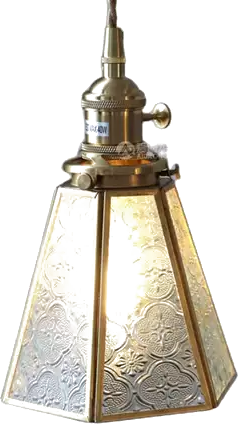
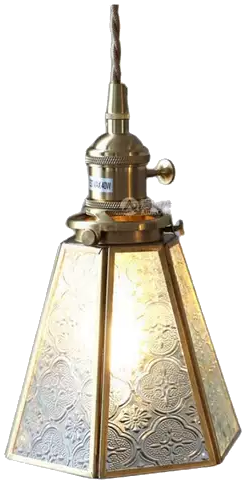
Replace intro lamp with hanging pendant drop animation.
Use a background-removed pendant asset with an extended cord anchored to the page top, and animate the fixture slowly lowering into place.

diff --git a/style.css b/style.css
@@ -516,12 +516,6 @@ body[data-home-reveal="done"] #home .home-panel-content > *:nth-child(4) {
     transition-delay: 1.05s;
 }
 
-@property --home-lamp-drop {
-    syntax: "<length>";
-    inherits: true;
-    initial-value: 0px;
-}
-
 .home-intro-overlay {
     position: fixed;
     z-index: 1200;
@@ -530,7 +524,6 @@ body[data-home-reveal="done"] #home .home-panel-content > *:nth-child(4) {
     place-items: center;
     background: #000;
     transition: background 1.2s ease, opacity 1.2s ease;
-    overflow: hidden;
 }
 
 .home-intro-overlay--dark,
@@ -546,90 +539,85 @@ body[data-home-reveal="done"] #home .home-panel-content > *:nth-child(4) {
     pointer-events: none;
 }
 
-.home-intro-lamp-anchor {
-    position: fixed;
+.home-intro-lamp-wrap {
+    position: absolute;
     top: 0;
     left: 50%;
-    z-index: 3;
+    z-index: 2;
     display: flex;
     flex-direction: column;
     align-items: center;
+    width: min(188px, 28vw);
     transform: translateX(-50%);
     pointer-events: none;
 }
 
 .home-intro-lamp-cord {
     position: relative;
-    width: 7px;
-    height: var(--home-lamp-drop);
+    z-index: 3;
+    flex: 0 0 auto;
+    width: 8px;
+    height: 0;
     border-radius: 999px;
-    background:
-        repeating-linear-gradient(
-            128deg,
-            #3b2a1d 0 5px,
-            #745236 5px 10px,
-            #4a3426 10px 15px,
-            #8a6445 15px 20px
-        );
+    background-color: #8a6238;
+    background-repeat: repeat-y;
+    background-position: center top;
+    background-size: 100% auto;
     box-shadow:
-        inset -1px 0 1px rgba(255, 255, 255, 0.1),
-        inset 1px 0 2px rgba(0, 0, 0, 0.35);
-    transition: height 3.6s cubic-bezier(0.33, 1, 0.32, 1);
+        inset 1px 0 1px rgba(255, 230, 190, 0.28),
+        inset -1px 0 1px rgba(40, 24, 10, 0.4),
+        0 0 10px rgba(255, 200, 120, 0.16);
+    transform-origin: top center;
+    transition: height 3.4s cubic-bezier(0.22, 0.61, 0.36, 1);
 }
 
-.home-intro-lamp-cord::after {
+.home-intro-lamp-cord::before {
     content: "";
     position: absolute;
-    bottom: -5px;
+    top: -2px;
     left: 50%;
-    width: 12px;
-    height: 9px;
-    background: linear-gradient(180deg, #c9a45c, #8f6d36);
-    border-radius: 2px;
+    width: 10px;
+    height: 10px;
+    border-radius: 50%;
+    background: radial-gradient(circle at 35% 35%, #e2c49a, #7a5530 70%);
     transform: translateX(-50%);
-    box-shadow: 0 1px 2px rgba(0, 0, 0, 0.35);
+    box-shadow: 0 0 8px rgba(255, 210, 140, 0.25);
 }
 
-.home-intro-lamp-wrap {
-    position: relative;
-    width: min(200px, 30vw);
+.home-intro-overlay--lamp .home-intro-lamp-cord,
+.home-intro-overlay--text .home-intro-lamp-cord,
+.home-intro-overlay--hold .home-intro-lamp-cord {
+    height: min(22vh, 190px);
+}
+
+.home-intro-overlay--blackout .home-intro-lamp-cord {
+    height: 0;
     opacity: 0;
-    transform: translateY(calc(-100% - 24px));
+    transition: height 1.2s ease, opacity 1.2s ease;
+}
+
+.home-intro-lamp-body {
+    position: relative;
+    z-index: 2;
+    width: 100%;
+    opacity: 0;
+    transform: translateY(-12px);
     transition:
-        opacity 1.2s ease 0.15s,
-        transform 3.6s cubic-bezier(0.33, 1, 0.32, 1);
+        opacity 1.2s ease 0.35s,
+        transform 3.4s cubic-bezier(0.22, 0.61, 0.36, 1);
 }
 
-.home-intro-overlay--dark {
-    --home-lamp-drop: 0px;
-}
-
-.home-intro-overlay--lamp,
-.home-intro-overlay--text,
-.home-intro-overlay--hold {
-    --home-lamp-drop: clamp(76px, 13vh, 128px);
-}
-
-.home-intro-overlay--lamp .home-intro-lamp-wrap,
-.home-intro-overlay--text .home-intro-lamp-wrap,
-.home-intro-overlay--hold .home-intro-lamp-wrap {
+.home-intro-overlay--lamp .home-intro-lamp-body,
+.home-intro-overlay--text .home-intro-lamp-body,
+.home-intro-overlay--hold .home-intro-lamp-body {
     opacity: 1;
     transform: translateY(0);
 }
 
-.home-intro-overlay--blackout {
-    --home-lamp-drop: clamp(76px, 13vh, 128px);
-}
-
-.home-intro-overlay--blackout .home-intro-lamp-wrap {
+.home-intro-overlay--blackout .home-intro-lamp-body {
     opacity: 0;
-    transform: translateY(-18px);
+    transform: translateY(-8px);
     transition: opacity 1.2s ease, transform 1.2s ease;
-}
-
-.home-intro-overlay--blackout .home-intro-lamp-cord {
-    opacity: 0;
-    transition: opacity 1.2s ease;
 }
 
 .home-intro-lamp-image {
@@ -638,12 +626,12 @@ body[data-home-reveal="done"] #home .home-panel-content > *:nth-child(4) {
     display: block;
     width: 100%;
     height: auto;
-    filter: drop-shadow(0 0 30px rgba(255, 208, 120, 0.5));
+    filter: drop-shadow(0 0 28px rgba(255, 208, 120, 0.45));
 }
 
 .home-intro-lamp-beam {
     position: absolute;
-    top: 92%;
+    top: 78%;
     left: 50%;
     z-index: 1;
     width: min(92vw, 920px);
@@ -651,7 +639,7 @@ body[data-home-reveal="done"] #home .home-panel-content > *:nth-child(4) {
     pointer-events: none;
     opacity: 0;
     transform: translateX(-50%);
-    transition: opacity 2.2s ease 1.8s;
+    transition: opacity 2.2s ease 1.4s;
     clip-path: polygon(50% 0%, 10% 100%, 90% 100%);
     background:
         conic-gradient(

diff --git a/src/components/HomeIntroOverlay.jsx b/src/components/HomeIntroOverlay.jsx
@@ -5,7 +5,8 @@ import { useTypewriter } from "../hooks/useTypewriter.js";
 const INTRO_TEXT =
     "你来了？我们都在等你。刚好我们在聊一个有趣的话题……";
 
-const pendantLampSrc = `${import.meta.env.BASE_URL}img/pendant-lamp.png`;
+const pendantSrc = `${import.meta.env.BASE_URL}img/pendant-lamp.png`;
+const cordSrc = `${import.meta.env.BASE_URL}img/pendant-cord.png`;
 
 const PHASE = {
     DARK: "dark",
@@ -17,9 +18,8 @@ const PHASE = {
 };
 
 const TIMING = {
-    darkHold: 1200,
-    lampDrop: 3600,
-    lampHold: 1200,
+    darkHold: 1400,
+    lampHold: 3600,
     typeSpeed: 72,
     textHold: 3200,
     blackoutFade: 1200,
@@ -44,10 +44,7 @@ export default function HomeIntroOverlay({ onBlackoutComplete }) {
     useEffect(() => {
         if (phase !== PHASE.LAMP) return undefined;
 
-        const textTimer = window.setTimeout(
-            () => setPhase(PHASE.TEXT),
-            TIMING.lampDrop + TIMING.lampHold,
-        );
+        const textTimer = window.setTimeout(() => setPhase(PHASE.TEXT), TIMING.lampHold);
         return () => window.clearTimeout(textTimer);
     }, [phase]);
 
@@ -85,12 +82,15 @@ export default function HomeIntroOverlay({ onBlackoutComplete }) {
             className={`home-intro-overlay home-intro-overlay--${phase}`}
             aria-hidden="true"
         >
-            <div className="home-intro-lamp-anchor">
-                <div className="home-intro-lamp-cord" />
-                <div className="home-intro-lamp-wrap">
+            <div className="home-intro-lamp-wrap">
+                <div
+                    className="home-intro-lamp-cord"
+                    style={{ backgroundImage: `url(${cordSrc})` }}
+                />
+                <div className="home-intro-lamp-body">
                     <img
                         className="home-intro-lamp-image"
-                        src={pendantLampSrc}
+                        src={pendantSrc}
                         alt=""
                         draggable="false"
                     />